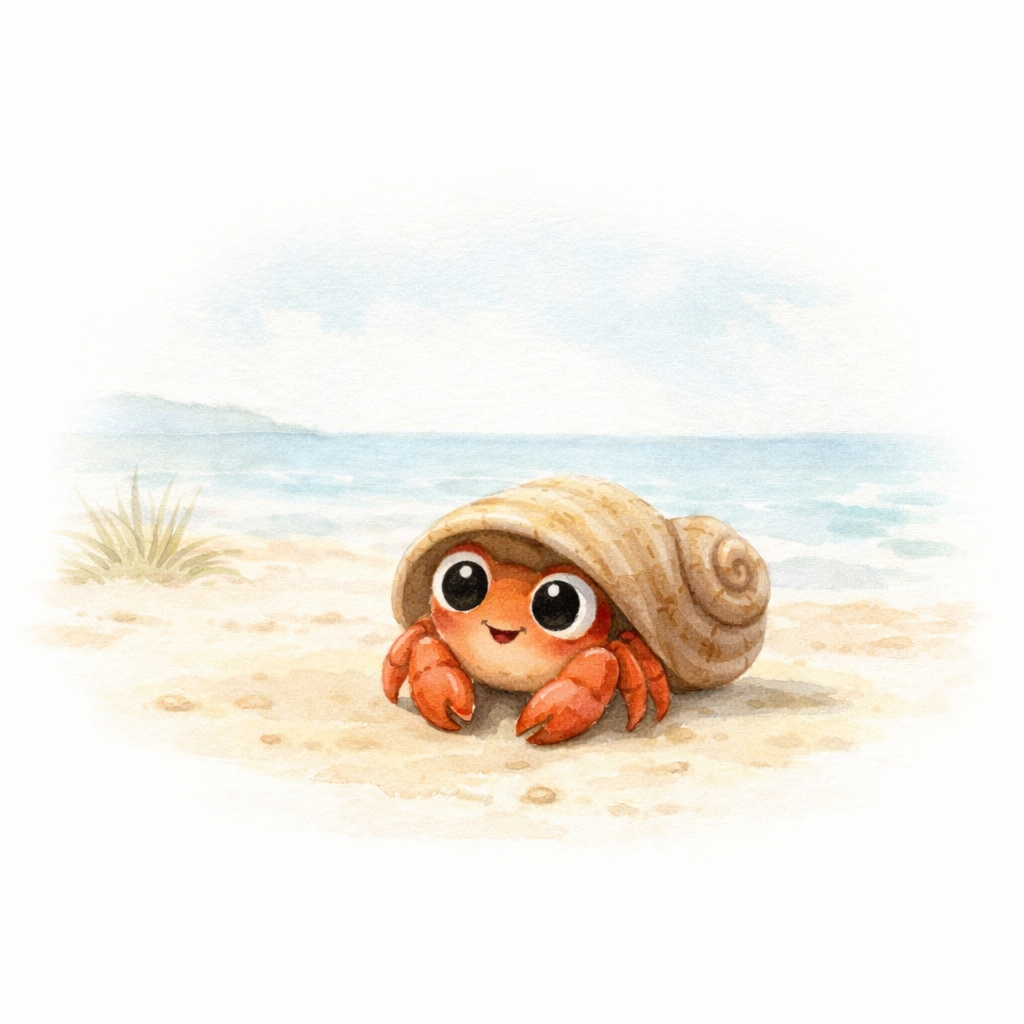
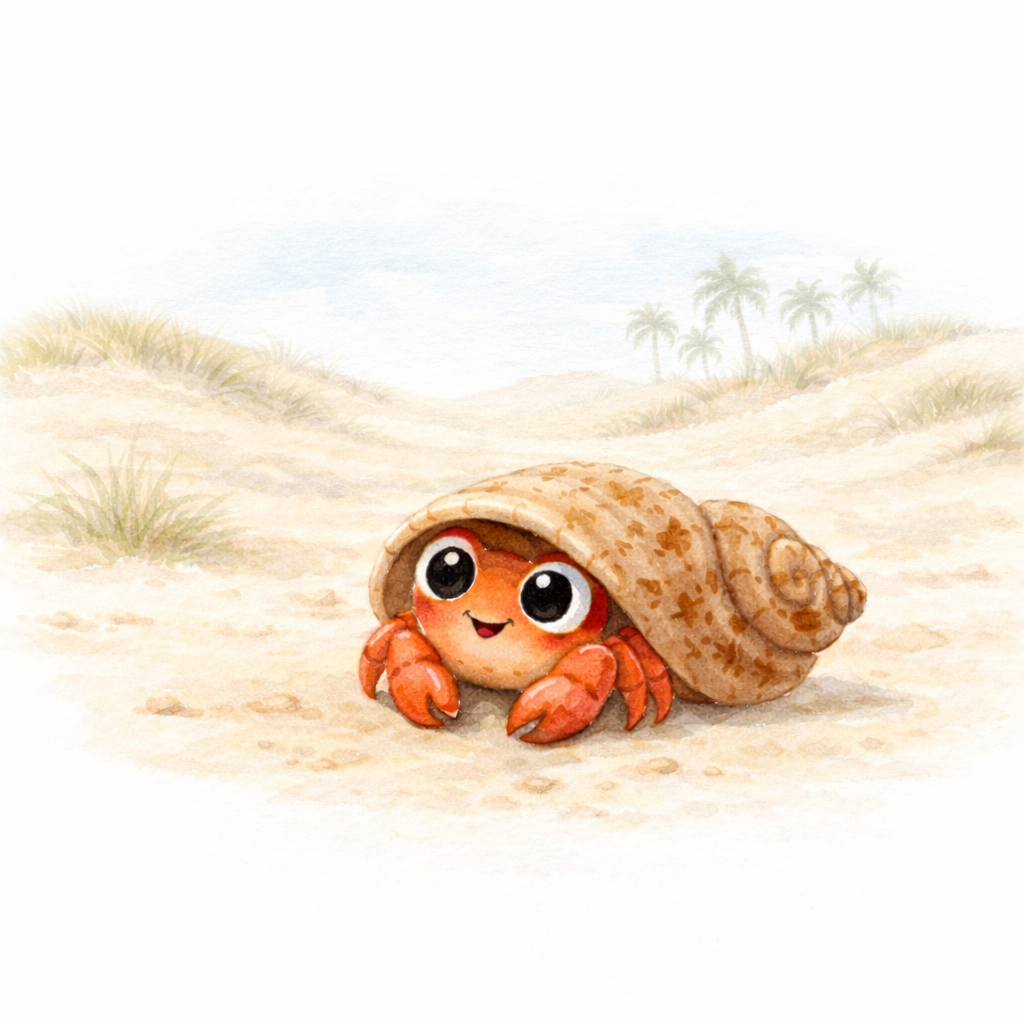
Update Edwin images - facing Harold in conversation scenes
Replaced edwin.png and edwin-wow.png with new versions where Edwin
faces Harold (inland) instead of having the sea behind him. Bump v121.

Changed region(s): [[0.0, 0.25, 1.0, 0.8125], [0.6875, 0.75, 0.7188, 0.7812]]

diff --git a/index.html b/index.html
@@ -17,7 +17,7 @@
     <link rel="preconnect" href="https://fonts.googleapis.com">
     <link rel="preconnect" href="https://fonts.gstatic.com" crossorigin>
     <link href="https://fonts.googleapis.com/css2?family=Cormorant+Garamond:ital,wght@0,400;0,600;1,400&family=Nunito:wght@400;700;800&family=Lora:ital,wght@0,400;0,600;1,400&display=swap" rel="stylesheet">
-    <link rel="stylesheet" href="styles.css?v=120">
+    <link rel="stylesheet" href="styles.css?v=121">
 </head>
 <body class="theme-minimal">
 
@@ -81,7 +81,7 @@
     <script>
     // Auto-refresh if a newer version has been deployed
     (function(){
-        var MY_VERSION = 120;
+        var MY_VERSION = 121;
         window.__squished_version = MY_VERSION;
         fetch('version.json', {cache:'no-store'})
             .then(function(r){return r.json()})
@@ -91,7 +91,7 @@
             .catch(function(){});
     })();
     </script>
-    <script src="content-loader.js?v=120"></script>
-    <script src="script.js?v=120"></script>
+    <script src="content-loader.js?v=121"></script>
+    <script src="script.js?v=121"></script>
 </body>
 </html>

diff --git a/CLAUDE.md b/CLAUDE.md
@@ -10,7 +10,7 @@ When updating `styles.css`, `script.js`, or `content-loader.js`, you MUST increm
 <script src="script.js?v=X"></script>
 ```
 
-Current version: **v120**
+Current version: **v121**
 
 Bump the `?v=` number (e.g., `?v=2` → `?v=3`) so Safari and other browsers fetch the fresh files.
 
